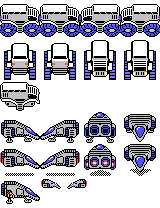
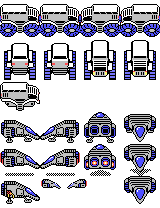
added little cutscenes for flying to the crater and back

Changed region(s): [[0.75, 0.8365, 1.0, 0.9808]]

diff --git a/src/ShrdluCutScenes.ts b/src/ShrdluCutScenes.ts
@@ -5,6 +5,8 @@ var CUTSCENE_FUNGI:number = 4;
 var CUTSCENE_MSX:number = 5;
 var CUTSCENE_CRASHED_SHUTTLE:number = 6;
 var CUTSCENE_DATAPAD:number = 7;
+var CUTSCENE_SHUTTLE_TAKEOFF:number = 8;
+var CUTSCENE_SHUTTLE_LAND:number = 9;
 
 
 class ShrdluCutScenes {
@@ -25,6 +27,8 @@ class ShrdluCutScenes {
 		if (cutScene == CUTSCENE_MSX) return this.updateCutSceneMSX();
 		if (cutScene == CUTSCENE_CRASHED_SHUTTLE) return this.updateCutSceneCrashedShuttle();
 		if (cutScene == CUTSCENE_DATAPAD) return this.updateCutSceneDatapad();
+		if (cutScene == CUTSCENE_SHUTTLE_TAKEOFF) return this.updateCutSceneShuttleTakeOff();
+		if (cutScene == CUTSCENE_SHUTTLE_LAND) return this.updateCutSceneShuttleLand();
 		this.ESCpressedRecord = false;
 		return true;
 	}
@@ -38,6 +42,8 @@ class ShrdluCutScenes {
 		if (cutScene == CUTSCENE_MSX) this.drawCutSceneMSX(screen_width, screen_height);
 		if (cutScene == CUTSCENE_CRASHED_SHUTTLE) this.drawCutSceneCrashedShuttle(screen_width, screen_height);
 		if (cutScene == CUTSCENE_DATAPAD) this.drawCutSceneDatapad(screen_width, screen_height);
+		if (cutScene == CUTSCENE_SHUTTLE_TAKEOFF) this.drawCutSceneShuttleTakeOff(screen_width, screen_height);
+		if (cutScene == CUTSCENE_SHUTTLE_LAND) this.drawCutSceneShuttleLand(screen_width, screen_height);
 	}
 
 
@@ -610,6 +616,123 @@ class ShrdluCutScenes {
 		ctx.restore();
 	}
 
+
+	updateCutSceneShuttleTakeOff() : boolean
+	{
+		let stateTimes:number[] = [100, 128, 256, -1];
+
+		this.game.cycles_without_redrawing = 1;	// give the game a cycle after the cutscene before redrawing to avoid some flicker
+
+		if (stateTimes[this.cutSceneState] == -1) {
+			this.cutSceneState = 0;
+			this.cutSceneStateTimer = 0;
+			this.ESCpressedRecord = false;
+			return true;
+		}
+
+		this.cutSceneStateTimer++;
+		if (this.cutSceneStateTimer >= stateTimes[this.cutSceneState] || this.ESCpressedRecord) {
+			this.cutSceneStateTimer = 0;
+			this.cutSceneState++;
+		}
+
+		this.ESCpressedRecord = false;
+
+		return false;
+	}
+
+
+	drawCutSceneShuttleTakeOff(screen_width:number, screen_height:number)
+	{
+		ctx.save();
+		ctx.scale(PIXEL_SIZE, PIXEL_SIZE);
+
+		let stateImgs:string[] = ["data/cutscene-travel1.png", 
+								  "data/cutscene-travel1.png", 
+								  "data/cutscene-travel1.png", 
+								  null];
+
+		if (stateImgs[this.cutSceneState] != null) {
+			let img:GLTile = this.game.GLTM.get(stateImgs[this.cutSceneState]);
+			if (img != null) img.draw(0,0);
+
+			if (this.cutSceneState == 1) {
+				// shuttle taking off:
+				let t:GLTile = this.game.GLTM.getPiece("data/vehicles.png", 80, 144, 40, 26);
+				t.draw(108, 192 - this.cutSceneStateTimer*2)
+	
+				let img2:GLTile = this.game.GLTM.getPiece(stateImgs[this.cutSceneState], 0, 184, 256, 8);
+				if (img2 != null) img2.draw(0,184);
+			}
+
+			if (this.cutSceneState == 2) {
+				// shuttle flying in the distance:
+				let t:GLTile = this.game.GLTM.getPiece("data/vehicles.png", 64, 176, 24, 16);
+				t.draw(256 - this.cutSceneStateTimer*2, 32)
+			}
+		}
+
+		ctx.restore();
+	}
+
+
+	updateCutSceneShuttleLand() : boolean
+	{
+		let stateTimes:number[] = [100, 128, 256, -1];
+
+		this.game.cycles_without_redrawing = 1;	// give the game a cycle after the cutscene before redrawing to avoid some flicker
+
+		if (stateTimes[this.cutSceneState] == -1) {
+			this.cutSceneState = 0;
+			this.cutSceneStateTimer = 0;
+			this.ESCpressedRecord = false;
+			return true;
+		}
+
+		this.cutSceneStateTimer++;
+		if (this.cutSceneStateTimer >= stateTimes[this.cutSceneState] || this.ESCpressedRecord) {
+			this.cutSceneStateTimer = 0;
+			this.cutSceneState++;
+		}
+
+		this.ESCpressedRecord = false;
+
+		return false;
+	}
+
+
+	drawCutSceneShuttleLand(screen_width:number, screen_height:number)
+	{
+		ctx.save();
+		ctx.scale(PIXEL_SIZE, PIXEL_SIZE);
+
+		let stateImgs:string[] = ["data/cutscene-travel1.png", 
+								  "data/cutscene-travel1.png", 
+								  "data/cutscene-travel1.png", 
+								  null];
+
+		if (stateImgs[this.cutSceneState] != null) {
+			let img:GLTile = this.game.GLTM.get(stateImgs[this.cutSceneState]);
+			if (img != null) img.draw(0,0);
+
+			if (this.cutSceneState == 1) {
+				// shuttle flying in the distance:
+				let t:GLTile = this.game.GLTM.getPiece("data/vehicles.png", 40, 176, 24, 16);
+				t.draw(-24 + this.cutSceneStateTimer*2, 32)
+			}
+
+			if (this.cutSceneState == 2) {
+				// shuttle landing:
+				let t:GLTile = this.game.GLTM.getPiece("data/vehicles.png", 120, 176, 40, 28);
+				t.draw(108, -32 + this.cutSceneStateTimer*2)
+	
+				let img2:GLTile = this.game.GLTM.getPiece(stateImgs[this.cutSceneState], 0, 184, 256, 8);
+				if (img2 != null) img2.draw(0,184);
+			}
+		}
+
+		ctx.restore();
+	}
 
 
 	cutSceneState:number = 0;

diff --git a/src/auxiliar/GLTManager.ts b/src/auxiliar/GLTManager.ts
@@ -32,14 +32,15 @@ class GLTManager {
 
     getPiece(name:string, x:number, y:number, width:number, height:number):GLTile
     {
-        var tile:GLTile = this.hash[name+"-"+x+"-"+y+"-"+width+"-"+height];
+        let tileName:string = name+"-"+x+"-"+y+"-"+width+"-"+height;
+        var tile:GLTile = this.hash[tileName];
         if (tile!=null) return tile;
 
         var img:HTMLImageElement = this.getImage(name);
 
         if (img.width!=0) {
             tile = new GLTile(img, x, y, width, height);
-            this.hash[name] = tile;
+            this.hash[tileName] = tile;
             return tile;
         }
         return null;
@@ -48,14 +49,15 @@ class GLTManager {
 
     getPieceDark(name:string, x:number, y:number, width:number, height:number):GLTile
     {
-        var tile:GLTile = this.hash[name+"-"+x+"-"+y+"-"+width+"-"+height];
+        let tileName:string = name+"-"+x+"-"+y+"-"+width+"-"+height+"-dark";
+        var tile:GLTile = this.hash[tileName];
         if (tile!=null) return tile;
 
         var img:HTMLImageElement = this.getImageDark(name);
 
         if (img.width!=0) {
             tile = new GLTile(img, x, y, width, height);
-            this.hash[name] = tile;
+            this.hash[tileName] = tile;
             return tile;
         }
         return null;

diff --git a/src/a4engine3/A4Game.ts b/src/a4engine3/A4Game.ts
@@ -1039,6 +1039,7 @@ class A4Game {
 
         this.cycle++;
         this.in_game_seconds++;    // we keep a separate count from cycles, since in some game scenes, time might advance faster
+        if (this.cycles_without_redrawing > 0) this.cycles_without_redrawing--;
 
         return true;
     }
@@ -1056,6 +1057,7 @@ class A4Game {
 
         // do not draw anything unless we have already executed a cycle:
         if (this.cycle==0) return;
+        if (this.cycles_without_redrawing>0) return;
 
         this.drawWorld(screen_width, split+tileSize);
         this.drawHUD(screen_width, screen_height, split);
@@ -2589,6 +2591,7 @@ class A4Game {
     objectDefinitionFiles:string[] = [];
     
 	cycle:number = 0;
+    cycles_without_redrawing:number = 0;
     gameComplete:boolean = false;
     gameComplete_ending_ID:string = null;
 

diff --git a/src/a4engine3/objects/A4Vehicle.ts b/src/a4engine3/objects/A4Vehicle.ts
@@ -190,8 +190,8 @@ class A4Vehicle extends A4WalkingObject {
                             this.direction == A4_DIRECTION_RIGHT && this.x == 59*this.map.tileWidth) {
                             if (!game.takeShuttleFromTrantorCrater(this)) {
                                 // we shlud never reach here!
-                                // ...
                             }
+                            game.cutSceneActivated = CUTSCENE_SHUTTLE_LAND;
                         }
                         break;
                     }
